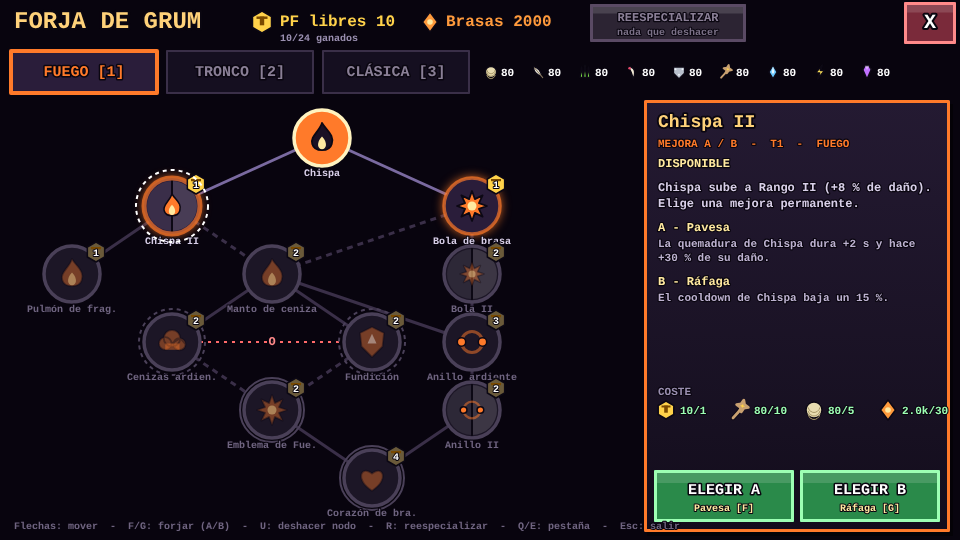
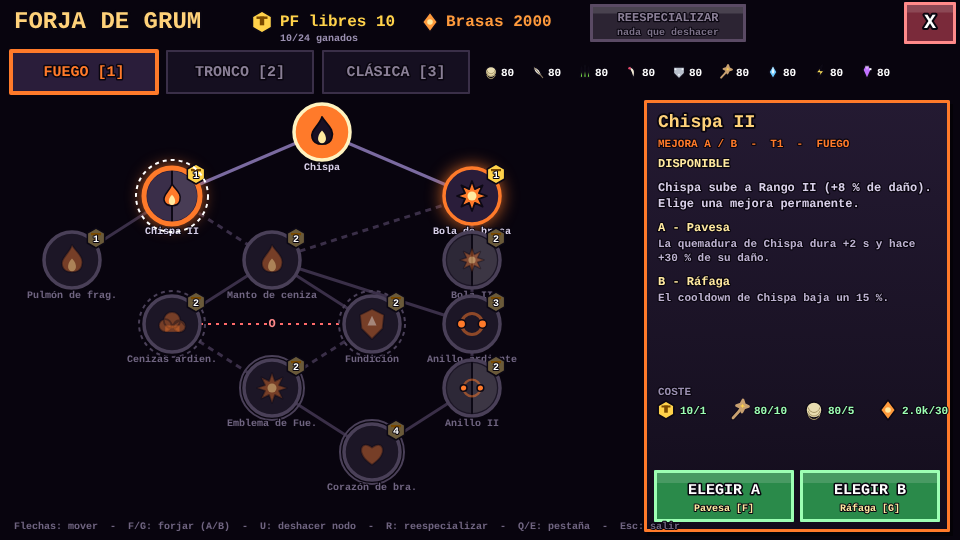
Swarm Hand: aldea y arte del Pastor en curso
Claude-Session: https://claude.ai/code/session_01SEMe6xkUsnkQXVwvcKxXxh

Changed region(s): [[0.0312, 0.1778, 0.5312, 0.9778]]

diff --git a/games/card-swarm/src/aldea.js b/games/card-swarm/src/aldea.js
@@ -236,7 +236,7 @@
       var kind = null;
       if (id === 'grum') { if (T.availableCount() > 0 || Object.keys(G.Loot.affordable()).length) kind = 'green'; }
       else if (id === 'vesper') { var mk = Q.mark(); kind = mk === 'ready' ? 'green' : mk === 'new' ? 'gold' : null; }
-      if (!kind || D.active() || mode === 'panel') return;
+      if (!kind || D.active() || mode === 'panel' || (tg && tg.id === id)) return;
       var p = npcPos(id), cv = anim(kind === 'green' ? 'ui_mark_green' : 'ui_mark_gold', 'shine', now), by = Math.sin(now / 300) * 3;
       if (cv) c.drawImage(cv, Math.round(p.x - cv.width / 2), Math.round(p.y - 112 + by));
       else { c.fillStyle = kind === 'green' ? '#7dff9a' : '#ffd24a'; c.beginPath(); c.arc(p.x, p.y - 100 + by, 11, 0, 6.283); c.fill(); G.txt(c, '!', p.x, p.y - 99 + by, 16, '#1a1024', 'center', 'rgba(0,0,0,0)'); }
@@ -270,7 +270,7 @@
   // Zona del joystick táctil: mitad izquierda, solo en modo caminar sin diálogo
   A.joyOK = function () { return G.state === 'aldea' && mode === 'walk' && !D.active() && !fade; };
   A.pos = M;
-  A.state = function () { return { mode: mode, panel: panel, dialog: D.active(), x: M.x, y: M.y, target: (target() || {}).id || null }; };
+  A.state = function () { return { mode: mode, panel: (G.Panels.current() || panel), dialog: D.active(), x: M.x, y: M.y, target: (target() || {}).id || null }; };
   // Depuración/bot: teletransporta a Marlo junto a un interactuable
   A.goto = function (id) { var L = ints().filter(function (i) { return i.id === id; })[0]; if (L) { M.x = L.x; M.y = L.y + 34; } };
   A.talk = function (id) { var L = ints().filter(function (i) { return i.id === id; })[0]; if (L) talk(L); };

diff --git a/games/card-swarm/src/tree.js b/games/card-swarm/src/tree.js
@@ -226,7 +226,7 @@
   var R_BUY = { x: 654, y: 470, w: 286, h: 52 };
   var R_CH = [{ x: 654, y: 470, w: 140, h: 52 }, { x: 800, y: 470, w: 140, h: 52 }];
   var R_UNDO = { x: 754, y: 418, w: 186, h: 44 };
-  var NX = 72, NY = 138, SX = 100, SY = 68, NR = 28;
+  var NX = 72, NY = 132, SX = 100, SY = 64, NR = 28;
   function pos(n) { return { x: NX + n.col * SX, y: NY + n.row * SY }; }
   function say(t) { ui.msg = t; ui.msgT = 3200; }
   function tabNodes() { return NODES.filter(function (n) { return n.tree === ui.tab; }); }
